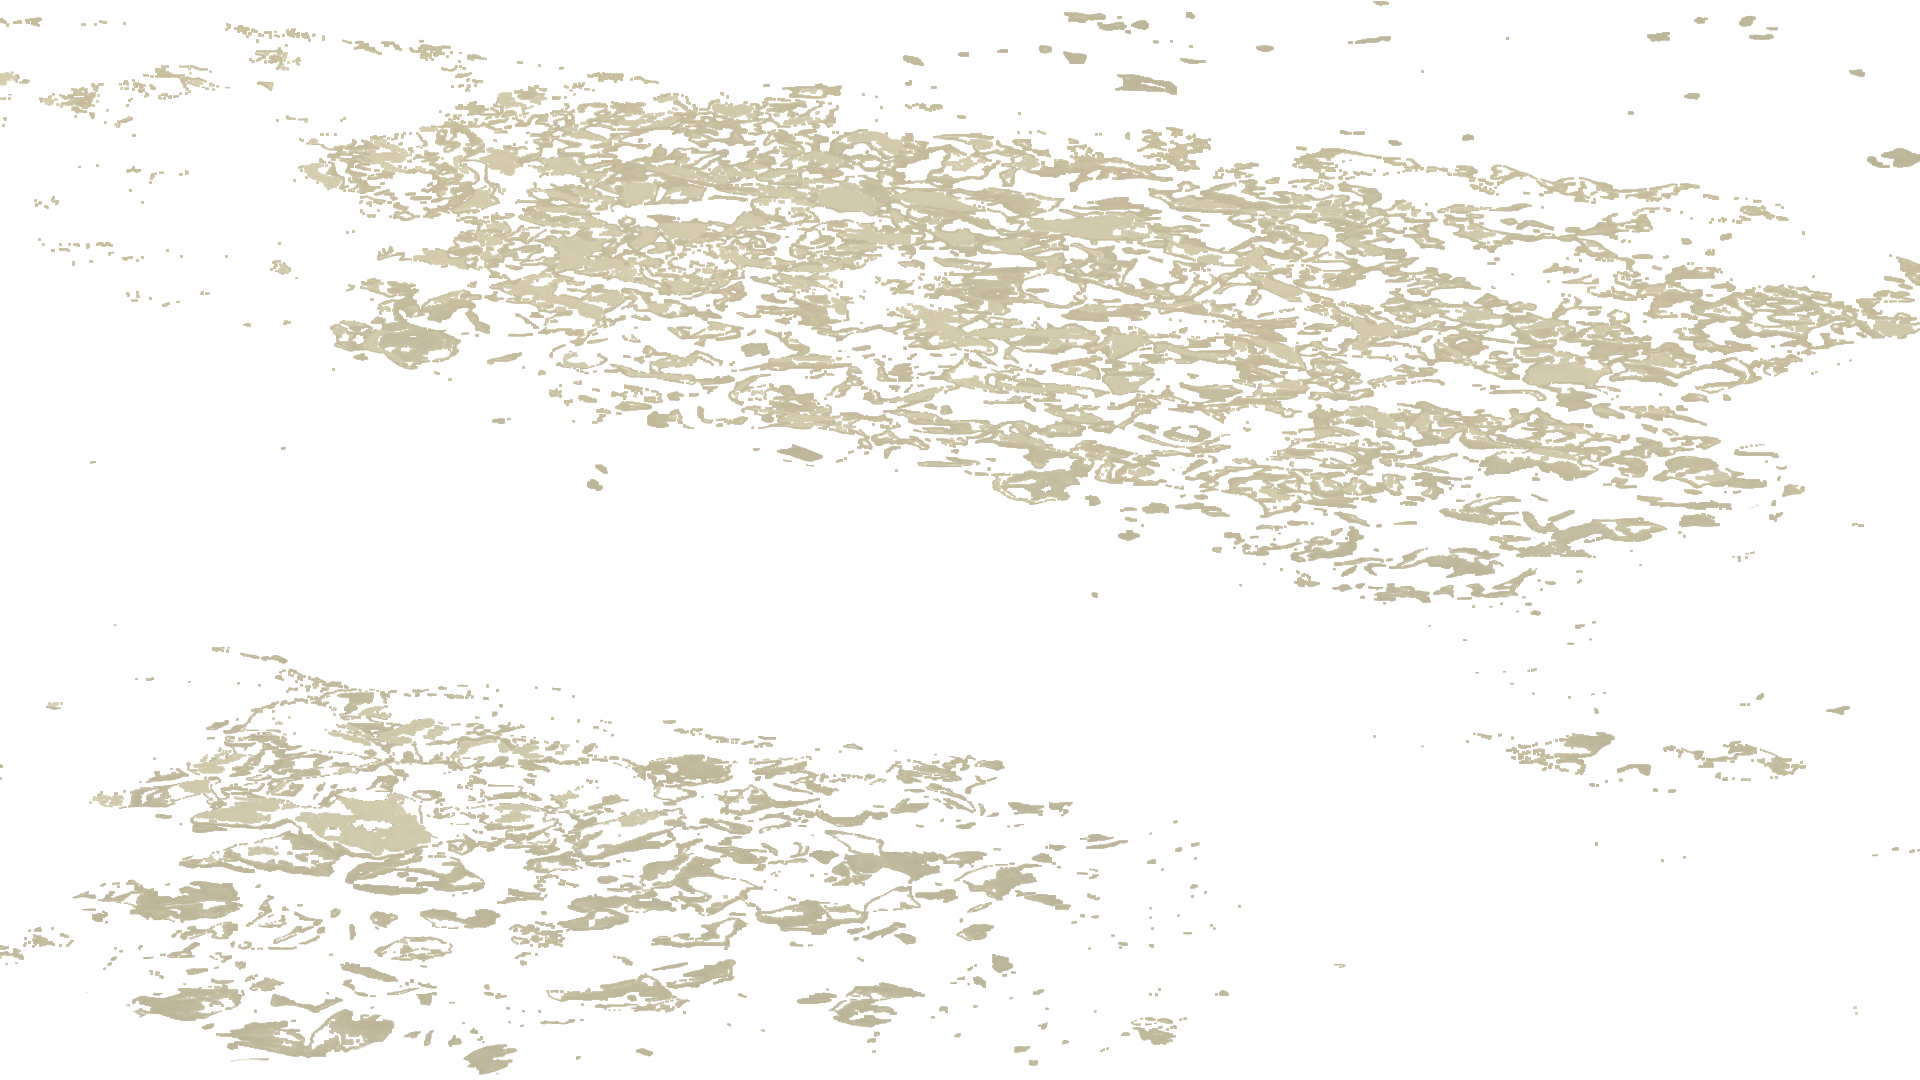
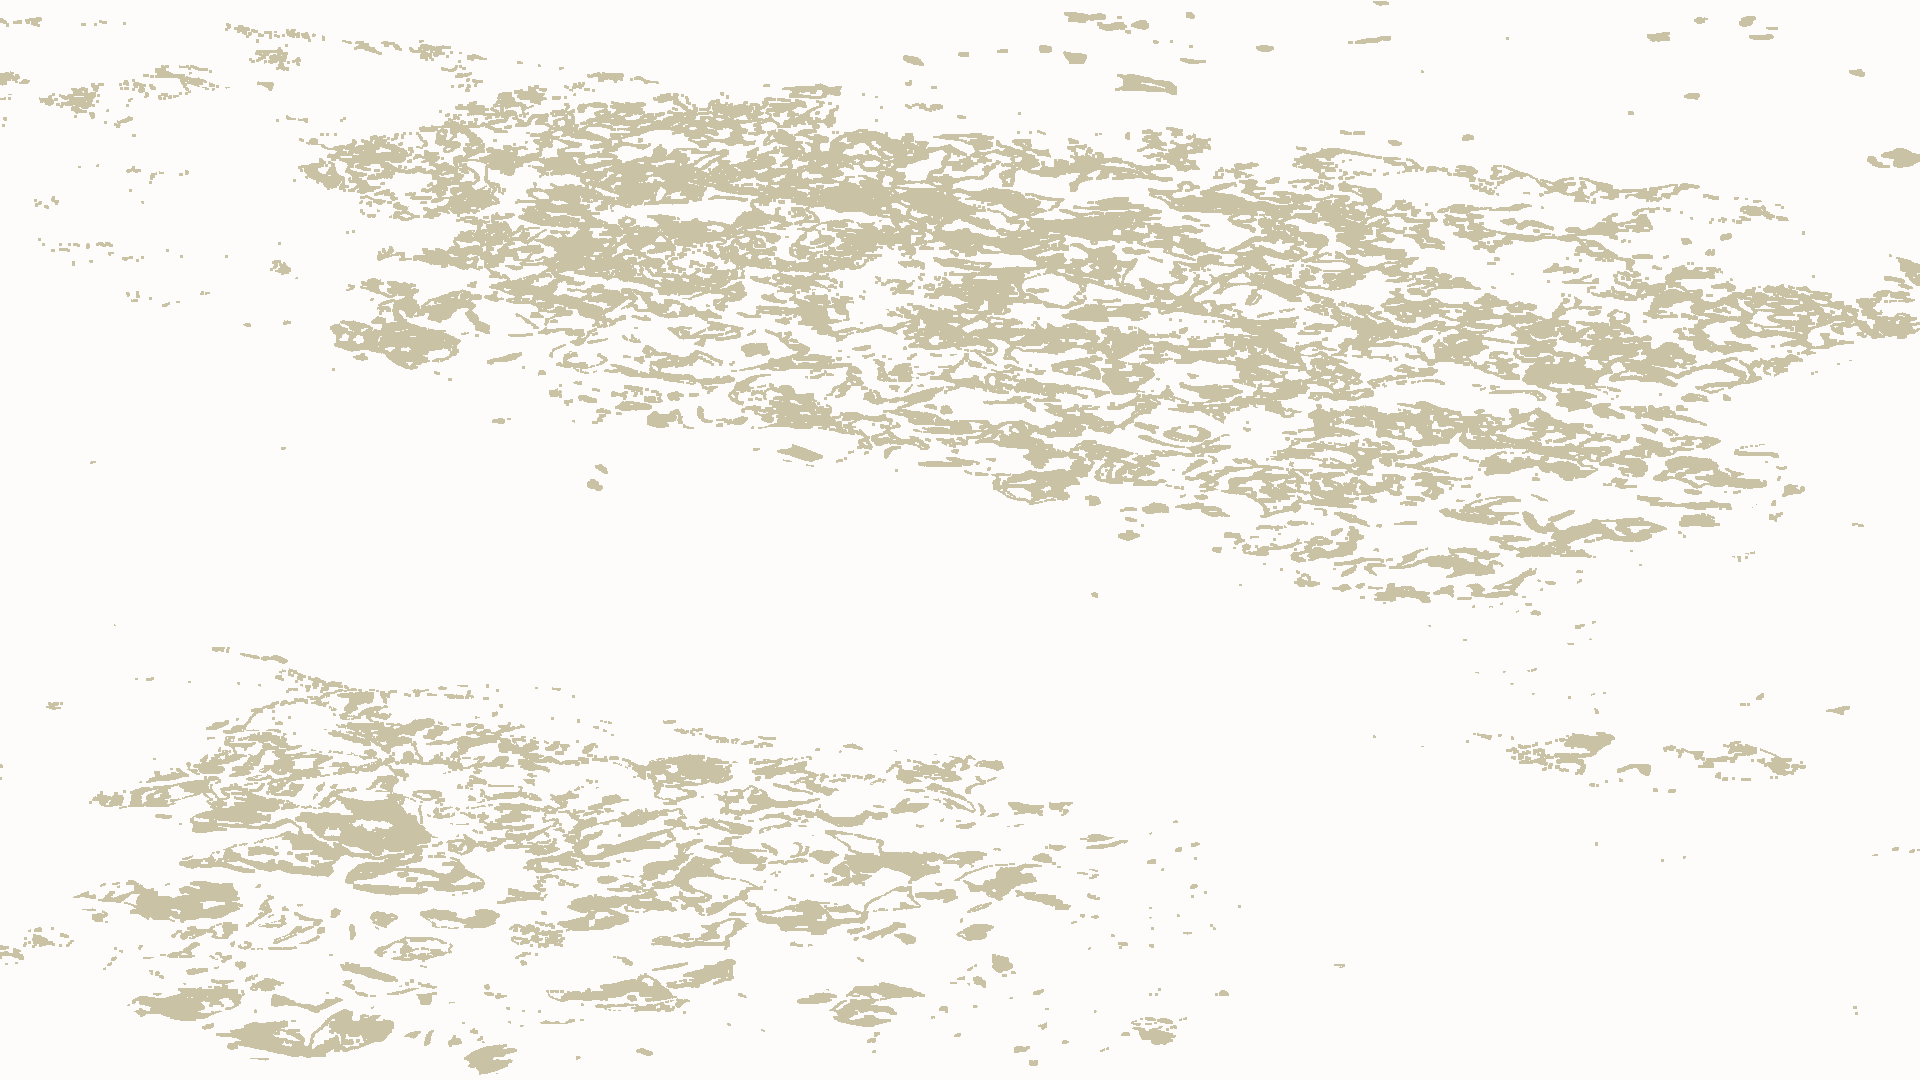
lofi images

diff --git a/src/App.svelte b/src/App.svelte
@@ -123,7 +123,7 @@
 				continue;
 
 			const path = `img/layers/`;
-			const fullPath = path + `${section.id}_full.jpg`;
+			const fullPath = path + `${section.id}_long_q8.jpg`;
 			const setFullProp = (img) => (section.full = img);
 			section.full = null;
 			promises.push(preloadImg(fullPath, setFullProp));
